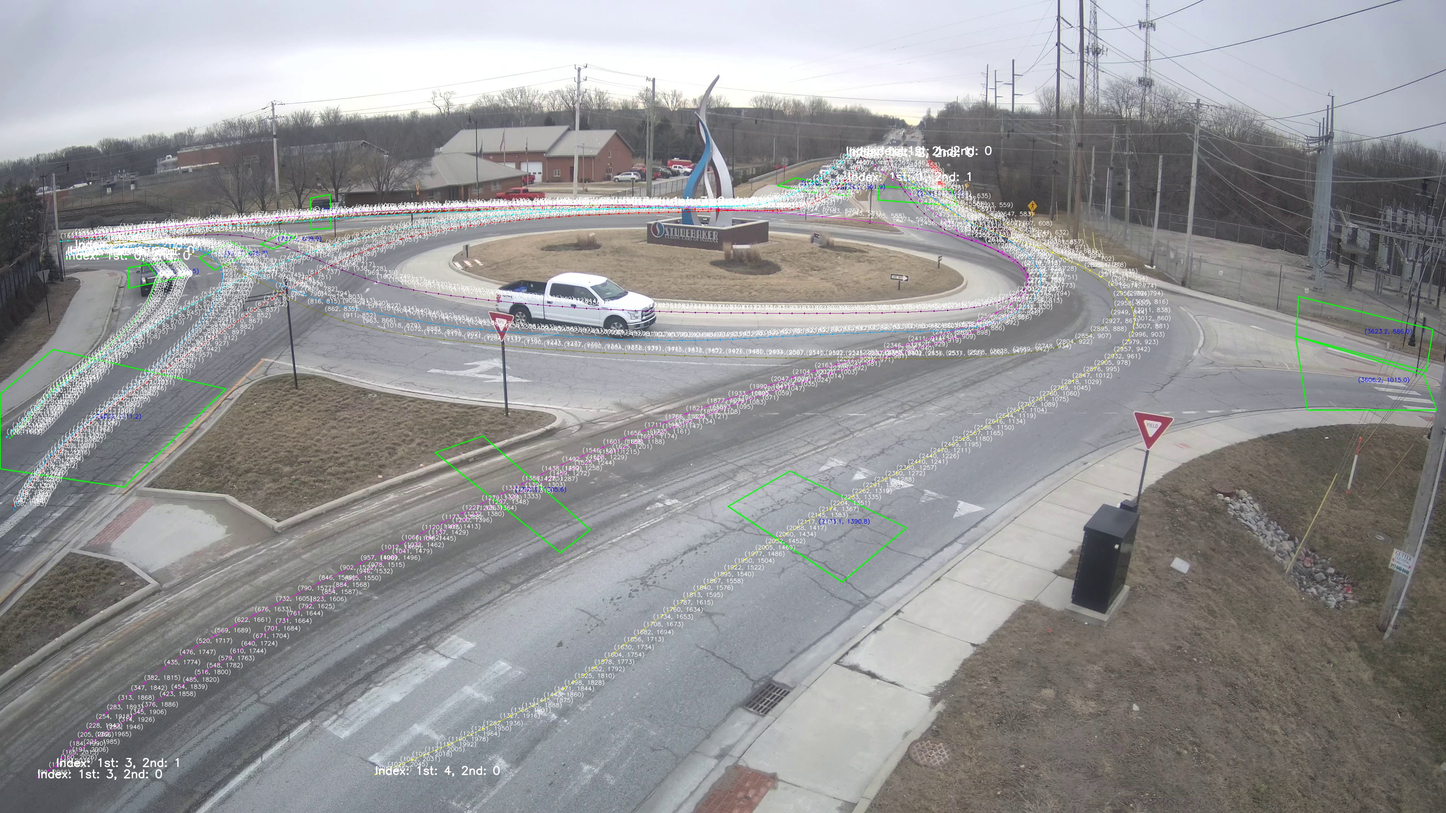
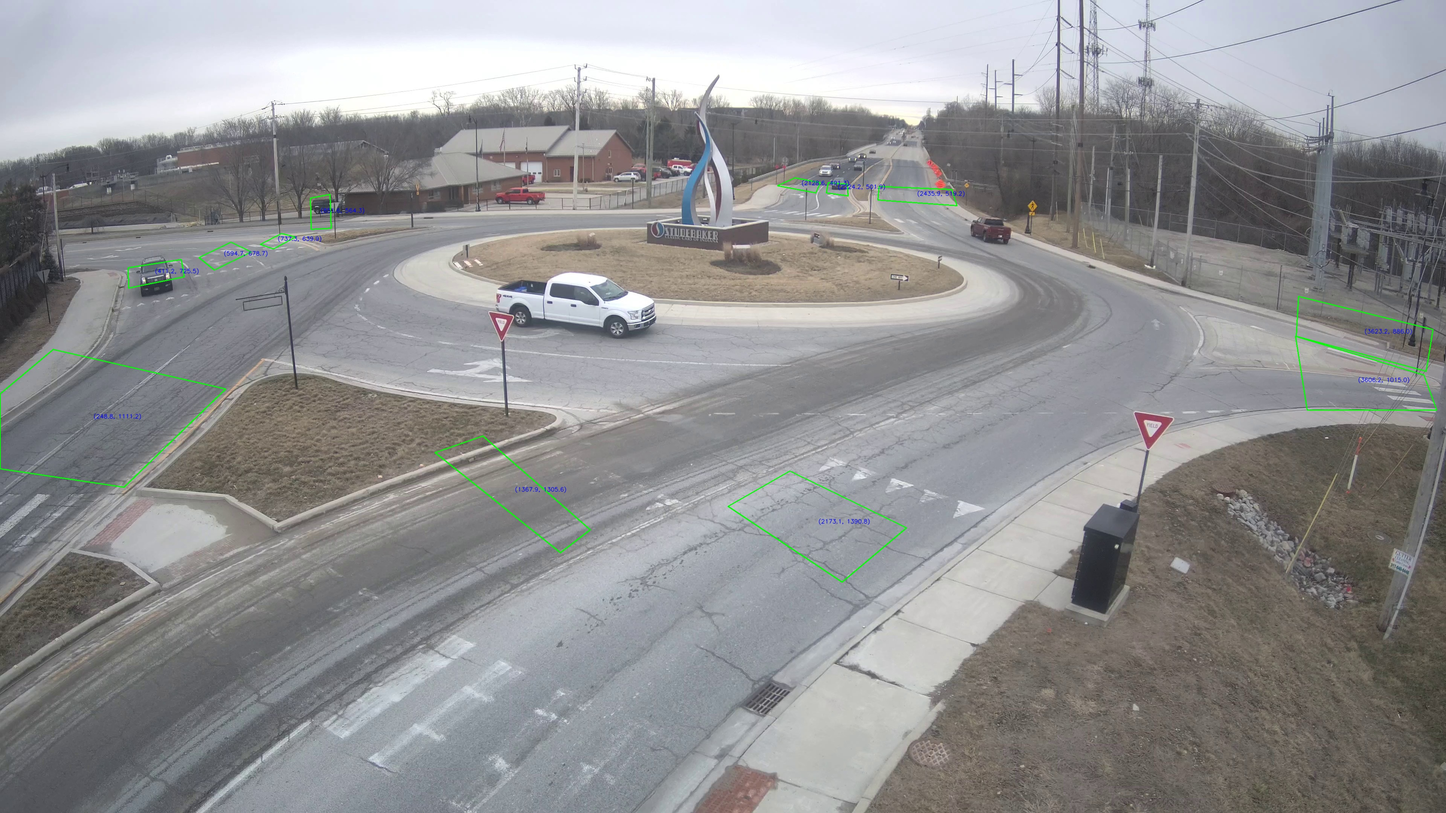
test

diff --git a/utils/drawing_utils.py b/utils/drawing_utils.py
@@ -61,7 +61,7 @@ def draw_polygons(frame, polygons):
         # Label the centroid position
         cv2.putText(frame, label, label_position, cv2.FONT_HERSHEY_SIMPLEX, 0.5, (255, 0, 0), 1, cv2.LINE_AA)
         
-def draw_trajectories(frame, expected_trajectories, coords=False):
+def draw_trajectories(frame, expected_trajectories, coords=False, seperate_trajectories=False, sep_dir='output/trajs'):
     """
     Draws trajectories on the frame, and labels each trajectory with an index.
     
@@ -90,48 +90,63 @@ def draw_trajectories(frame, expected_trajectories, coords=False):
     ]
     color_index = 0
 
-    for out_index, (first_polygon_int, inner_dict) in enumerate(expected_trajectories.items()):
-        color_index = (color_index + 1) % len(label_colors)
-        color = label_colors[color_index]
-
-        for in_index, (final_polygon, trajectory) in enumerate(inner_dict.items()):
-            trajectory = trajectory[:, 0]
-            # Draw the trajectory points
-            for point in trajectory:
-                cv2.circle(frame, (int(point[0]), int(point[1])), 2, color, -1)
-            # Draw lines between consecutive points
-            for i in range(len(trajectory) - 1):
-                cv2.line(frame, (int(trajectory[i][0]), int(trajectory[i][1])), (int(trajectory[i+1][0]), int(trajectory[i+1][1])), color, 1)
-            
-            # Draw the label for the trajectory
-            x, y = trajectory[0][0], trajectory[0][1]
-            label_text = f"Index: 1st: {out_index}, 2nd: {in_index}"
-            label_position = (int(x), int(y))
-            font_scale = 1.0
-            font_color = (255, 255, 255)
-            thickness = 2
-            line_type = cv2.LINE_AA
-            (text_width, text_height), baseline = cv2.getTextSize(label_text, cv2.FONT_HERSHEY_SIMPLEX, font_scale, thickness)
-            
-            # Compute background for text
-            background_left = label_position[0]
-            background_top = label_position[1] - text_height - baseline
-            background_right = label_position[0] + text_width
-            background_bottom = label_position[1]
-            # cv2.rectangle(frame, (int(background_left), int(background_top)), (int(background_right), int(background_bottom)), (0, 0, 255), cv2.FILLED)
-            
-            # Draw the text label
-            cv2.putText(frame, label_text, label_position, cv2.FONT_HERSHEY_SIMPLEX, font_scale, font_color, thickness, line_type)
-            
-            # Show coordinates if 'coords' is 'on'
-            if coords:
+    if seperate_trajectories:
+        for out_index, (first_polygon_int, inner_dict) in enumerate(expected_trajectories.items()):
+            color_index = (color_index + 1) % len(label_colors)
+            color = label_colors[color_index]
+            for in_index, (final_polygon, trajectory) in enumerate(inner_dict.items()):
+                img = frame.copy()
+                trajectory = trajectory[:, 0]
+                # Draw the trajectory points
                 for point in trajectory:
-                    coord_text = f"({int(point[0])}, {int(point[1])})"
-                    coord_position = (int(point[0]), int(point[1]) - 10)  # Place the label just above the point
-                    cv2.putText(frame, coord_text, coord_position, cv2.FONT_HERSHEY_SIMPLEX, 0.5, (255, 255, 255), 1, cv2.LINE_AA)
+                    cv2.circle(img, (int(point[0]), int(point[1])), 2, color, -1)
+                # Draw lines between consecutive points
+                for i in range(len(trajectory) - 1):
+                    cv2.line(img, (int(trajectory[i][0]), int(trajectory[i][1])), (int(trajectory[i+1][0]), int(trajectory[i+1][1])), color, 1)
+                cv2.imwrite(f"{sep_dir}/trajectory_{out_index}_{in_index}.jpg", img)
+    else:
+        for out_index, (first_polygon_int, inner_dict) in enumerate(expected_trajectories.items()):
+            color_index = (color_index + 1) % len(label_colors)
+            color = label_colors[color_index]
+
+            for in_index, (final_polygon, trajectory) in enumerate(inner_dict.items()):
+                trajectory = trajectory[:, 0]
+                # Draw the trajectory points
+                for point in trajectory:
+                    cv2.circle(frame, (int(point[0]), int(point[1])), 2, color, -1)
+                # Draw lines between consecutive points
+                for i in range(len(trajectory) - 1):
+                    cv2.line(frame, (int(trajectory[i][0]), int(trajectory[i][1])), (int(trajectory[i+1][0]), int(trajectory[i+1][1])), color, 1)
+                
+                # Draw the label for the trajectory
+                x, y = trajectory[0][0], trajectory[0][1]
+                label_text = f"Index: 1st: {out_index}, 2nd: {in_index}"
+                label_position = (int(x), int(y))
+                font_scale = 1.0
+                font_color = (255, 255, 255)
+                thickness = 2
+                line_type = cv2.LINE_AA
+                (text_width, text_height), baseline = cv2.getTextSize(label_text, cv2.FONT_HERSHEY_SIMPLEX, font_scale, thickness)
+                
+                # Compute background for text
+                background_left = label_position[0]
+                background_top = label_position[1] - text_height - baseline
+                background_right = label_position[0] + text_width
+                background_bottom = label_position[1]
+                # cv2.rectangle(frame, (int(background_left), int(background_top)), (int(background_right), int(background_bottom)), (0, 0, 255), cv2.FILLED)
+                
+                # Draw the text label
+                cv2.putText(frame, label_text, label_position, cv2.FONT_HERSHEY_SIMPLEX, font_scale, font_color, thickness, line_type)
+                
+                # Show coordinates if 'coords' is 'on'
+                if coords:
+                    for point in trajectory:
+                        coord_text = f"({int(point[0])}, {int(point[1])})"
+                        coord_position = (int(point[0]), int(point[1]) - 10)  # Place the label just above the point
+                        cv2.putText(frame, coord_text, coord_position, cv2.FONT_HERSHEY_SIMPLEX, 0.5, (255, 255, 255), 1, cv2.LINE_AA)
                     
 # Function to save a frame with annotations
-def save_frame(video_path, output_path, polygons_csv, expected_trajectories, coords='off', frame_num=1):
+def save_frame(video_path, output_path, polygons_csv, expected_trajectories, coords=False, frame_num=1):
     """
     Saves a frame from a video or an image file, overlaying it with bounding boxes, polygons, 
     and trajectories as specified.
@@ -156,7 +171,7 @@ def save_frame(video_path, output_path, polygons_csv, expected_trajectories, coo
     
     # draw_bounding_boxes(frame, labels)
     draw_polygons(frame, polygons)
-    draw_trajectories(frame, expected_trajectories, coords=coords)
+    draw_trajectories(frame, expected_trajectories, coords=coords, seperate_trajectories=True)
 
     # Save the processed frame/image
     cv2.imwrite(output_path, frame)
